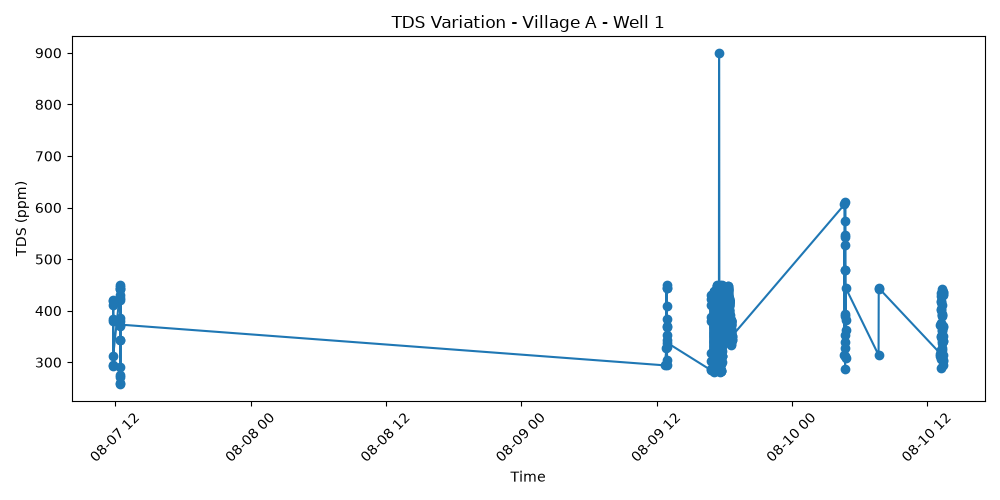
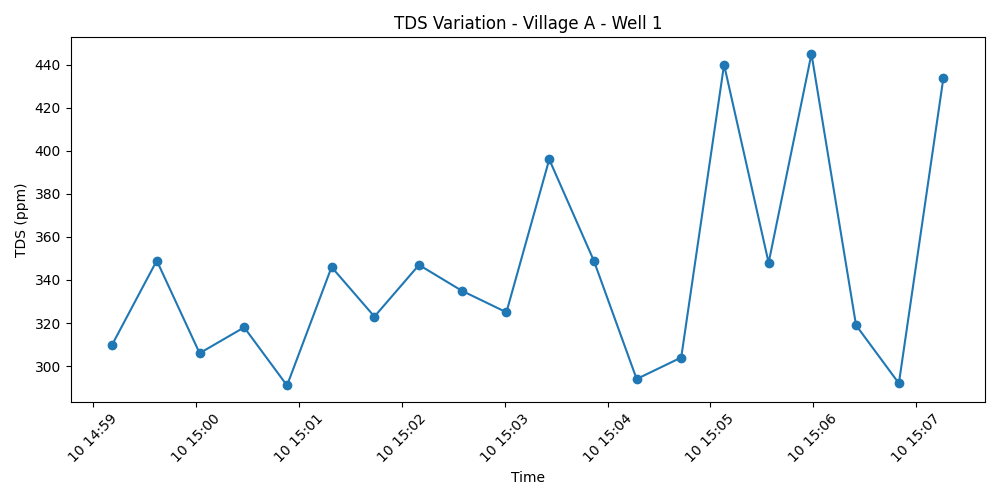
Updated groundwater dashboard

diff --git a/app.py b/app.py
@@ -339,7 +339,8 @@ def receive_data():
 # =========================================================
 
 if __name__ == "__main__":
-
     app.run(
+        host="0.0.0.0",
+        port=5000,
         debug=True
     )
